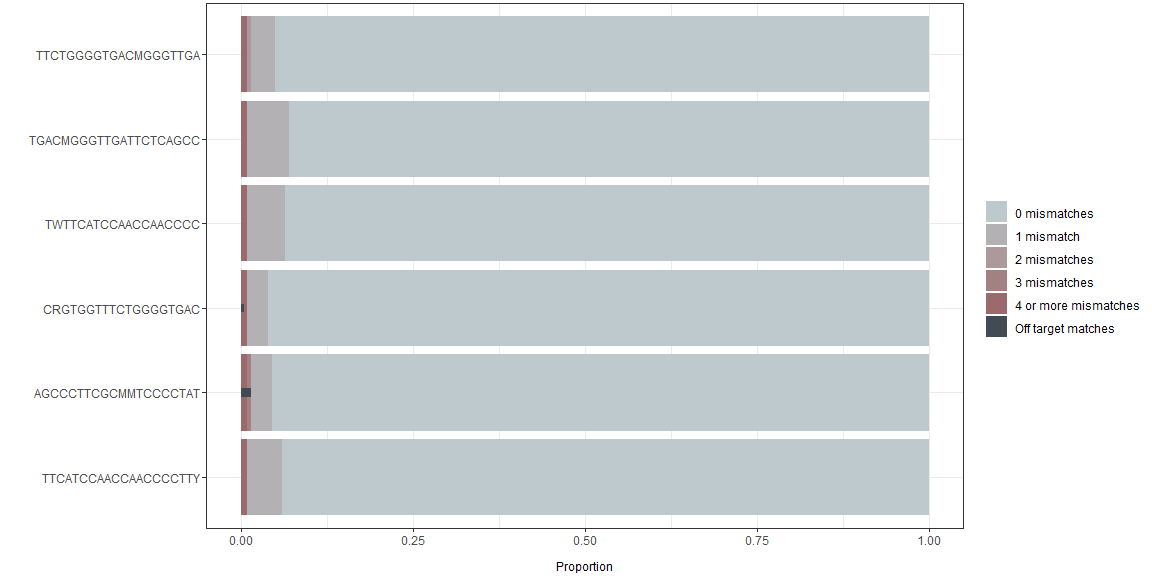
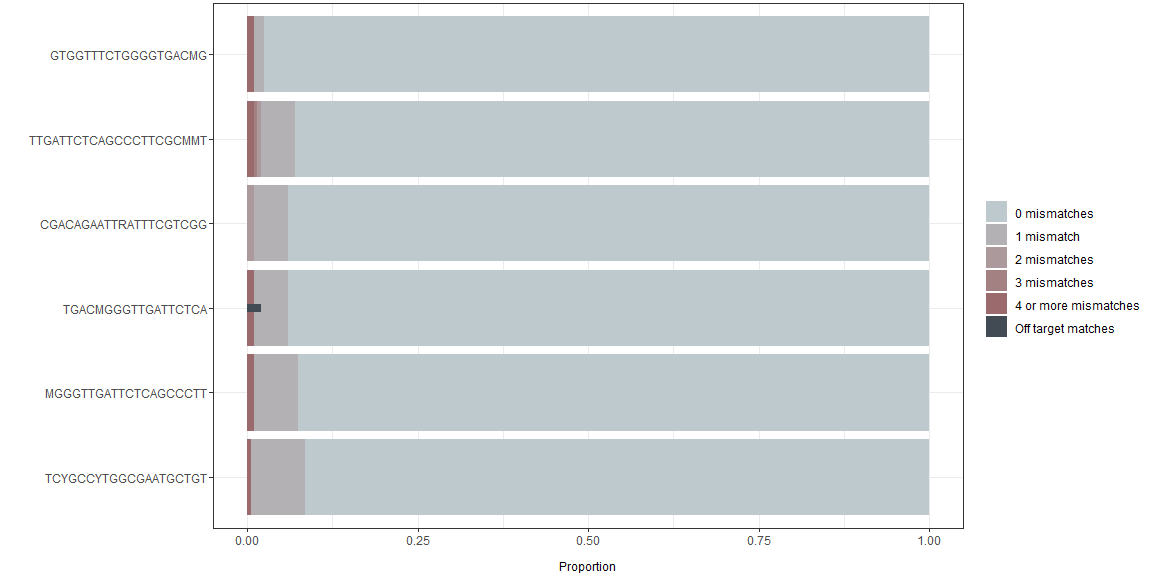
upd

diff --git a/README.md b/README.md
@@ -172,9 +172,9 @@ plotData(myAssays)
 
 ### Check match
 
-`checkMatch()` checks the proportion of target sequences in the input
-alignment that matches with the generated oligos or assays. As an
-example, we check six randomly selected oligos from `myOligos`:
+`checkMatch()` shows the proportion and names of the target sequences in
+the input alignment that match with the generated oligos or assays. As
+an example, we check six randomly selected oligos from `myOligos`:
 
 ``` r
 selection <- sample(seq_len(nrow(myOligos)), size = 6)
@@ -184,14 +184,14 @@ matchTableOligos <- checkMatch(myOligos[selection, ], target = myAlignment)
 
 Results:
 
-| iupacSequence         | perfectMatch | idPerfectMatch | oneMismatch | idOneMismatch | twoMismatches | idTwoMmismatches | threeMismatches | idThreeMmismatches | fourOrMoreMismatches | idFourOrMoreMmismatches | offTargetMatch | idOffTargetMatch |
-| :-------------------- | -----------: | :------------- | ----------: | :------------ | ------------: | :--------------- | --------------: | :----------------- | -------------------: | :---------------------- | -------------: | :--------------- |
-| TTCTGGGGTGACMGGGTTGA  |         0.95 | M73218.1….     |        0.04 | AB222183….    |             0 | JQ953665.1       |               0 |                    |                 0.01 | MN614142….              |           0.00 |                  |
-| TGACMGGGTTGATTCTCAGCC |         0.93 | M73218.1….     |        0.06 | AB222183….    |             0 |                  |               0 |                    |                 0.01 | MN614142….              |           0.00 |                  |
-| TWTTCATCCAACCAACCCC   |         0.94 | M73218.1….     |        0.06 | FJ457024….    |             0 |                  |               0 |                    |                 0.01 | MN614142….              |           0.00 |                  |
-| CRGTGGTTTCTGGGGTGAC   |         0.96 | M73218.1….     |        0.03 | BD378055….    |             0 |                  |               0 |                    |                 0.01 | MN614142….              |           0.00 | AB290312.1       |
-| AGCCCTTCGCMMTCCCCTAT  |         0.96 | M73218.1….     |        0.03 | AB222183….    |             0 |                  |               0 | JF443725.1         |                 0.01 | MN614142….              |           0.01 | KY232312….       |
-| TTCATCCAACCAACCCCTTY  |         0.94 | M73218.1….     |        0.05 | FJ457024….    |             0 |                  |               0 |                    |                 0.01 | MN614142….              |           0.00 |                  |
+| iupacSequence          | perfectMatch | idPerfectMatch | oneMismatch | idOneMismatch | twoMismatches | idTwoMmismatches | threeMismatches | idThreeMmismatches | fourOrMoreMismatches | idFourOrMoreMmismatches | offTargetMatch | idOffTargetMatch |
+| :--------------------- | -----------: | :------------- | ----------: | :------------ | ------------: | :--------------- | --------------: | :----------------- | -------------------: | :---------------------- | -------------: | :--------------- |
+| GTGGTTTCTGGGGTGACMG    |         0.98 | M73218.1….     |        0.01 | BD378055….    |          0.00 |                  |               0 |                    |                 0.01 | MN614142….              |           0.00 |                  |
+| TTGATTCTCAGCCCTTCGCMMT |         0.93 | M73218.1….     |        0.05 | AY575857….    |          0.00 | AB222183.1       |               0 | JF443725.1         |                 0.01 | MN614142….              |           0.00 |                  |
+| CGACAGAATTRATTTCGTCGG  |         0.94 | M73218.1….     |        0.05 | AY575857….    |          0.01 | MH410175….       |               0 |                    |                 0.00 |                         |           0.00 |                  |
+| TGACMGGGTTGATTCTCA     |         0.94 | M73218.1….     |        0.05 | AB222183….    |          0.00 |                  |               0 |                    |                 0.01 | MN614142….              |           0.02 | AY575857….       |
+| MGGGTTGATTCTCAGCCCTT   |         0.92 | M73218.1….     |        0.06 | AB222183….    |          0.00 |                  |               0 |                    |                 0.01 | MN614142….              |           0.00 |                  |
+| TCYGCCYTGGCGAATGCTGT   |         0.92 | M73218.1….     |        0.08 | X99441.1….    |          0.00 |                  |               0 |                    |                 0.00 | KJ013415.1              |           0.00 |                  |
 
 The match table can be visualized using `plotData()`:
 
